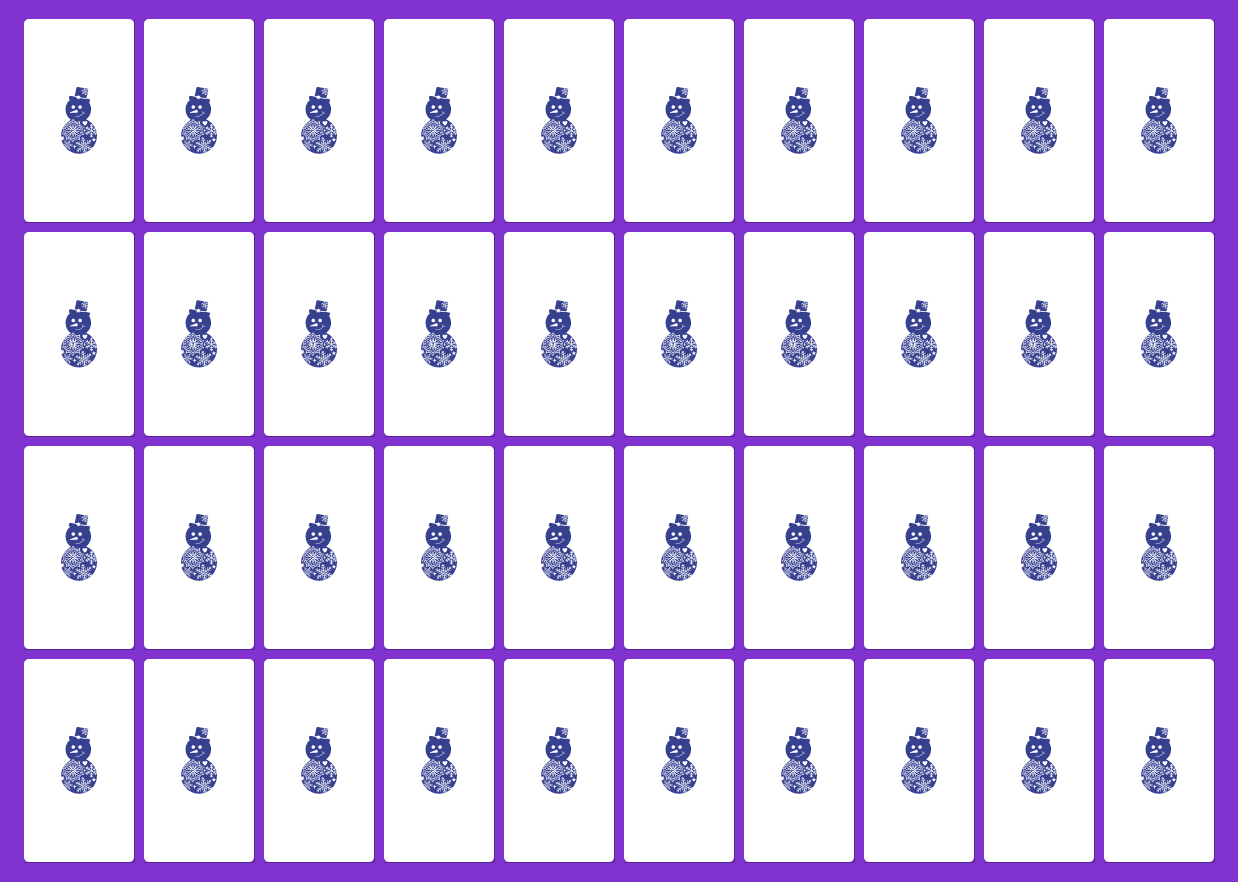
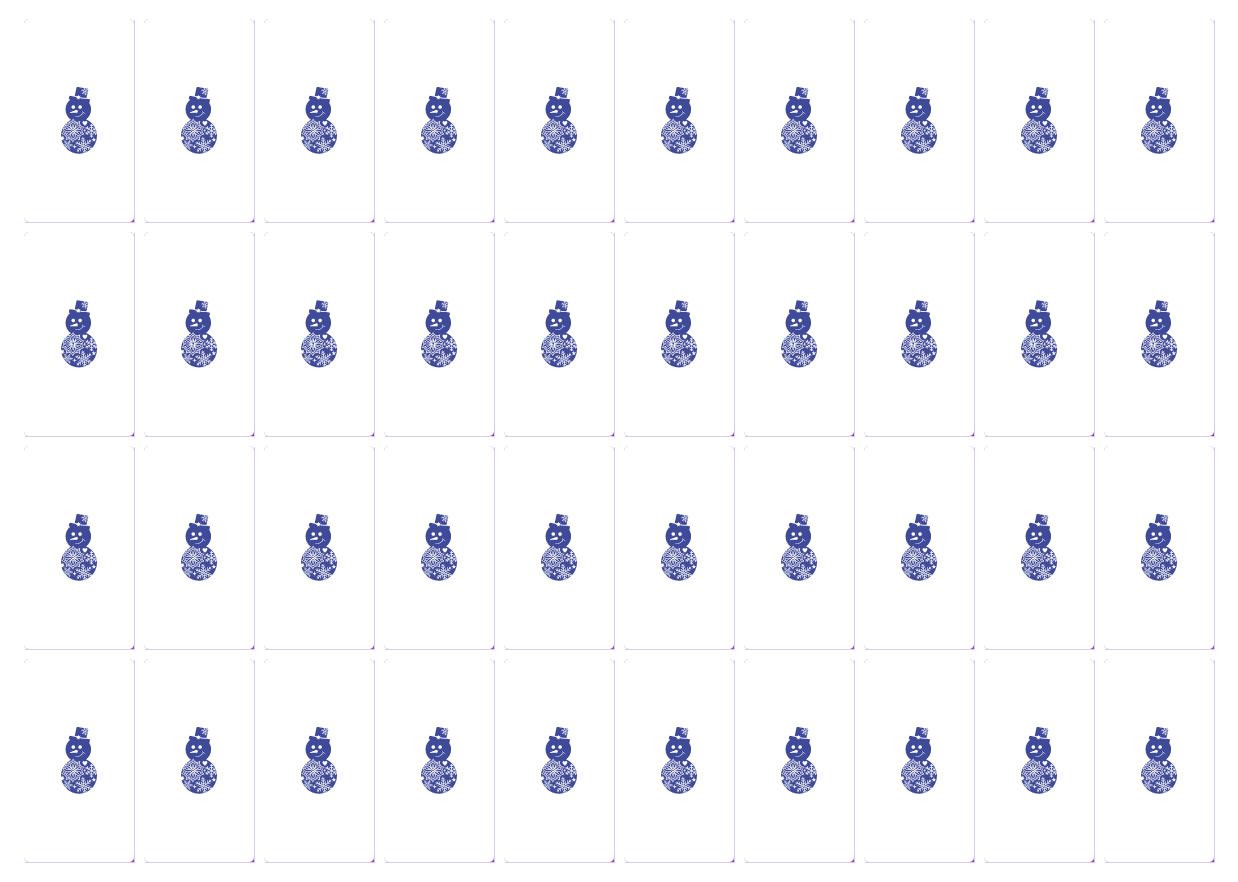
second.css	css -added background image
third.css	css
-add background image
-various style tweaks to align background image

third.html	games
-reduced win from 20 lines to 10 lines

purple-christmas-tree.jpg	img
purple-presents.jpg	img
-new background images

cruel.png	img/memory
-made background transparent

main.js	js/tetris
-fixed game over
-reduced win from 20 lines to 10 lines

Changed region(s): [[0.0, 0.0, 1.0, 1.0]]

diff --git a/css/third.css b/css/third.css
@@ -1,5 +1,7 @@
 body {
-    background: lightcoral;
+    background-image: url("/img/purple-christmas-tree.jpg");
+    background-repeat: no-repeat;
+    background-size: cover;
 }
 
 .intro {
@@ -18,6 +20,7 @@ body {
 .grid {
     display: grid;
     grid-template-columns: 300px 220px;
+    padding-top: 100px;
 }
 
 
@@ -32,6 +35,7 @@ body {
     justify-content: space-between;
     background-color: #FFFFFF;
     padding: 20px;
+    border: solid 2px; 
 }
 
 .next {
@@ -45,9 +49,24 @@ body {
     cursor: pointer;
 }
 
+.game-over img {
+    width: 150px;
+}
+
+.game-over p {
+    color: #FFFFFF;
+}
+
 .try-again {
-    max-width: 170px;
-    margin: 50px auto 0 auto;
+    background-color: #FFFFFF;
+    border-color: #FFFFFF;
+    color: mediumslateblue;
+}
+
+.try-again:hover {
+    background-color: mediumslateblue;
+    border-color: #FFFFFF;
+    color: #FFFFFF;
 }
 
 .winner p {

diff --git a/js/tetris/main.js b/js/tetris/main.js
@@ -50,7 +50,8 @@ $(document).ready(function() {
     });
 
     $('.try-again').on('click', function() {
-        $(this).hide();
+        $('.game-over').hide();
+        $('.game').show();
 
         resetGame();
         time.start = performance.now();
@@ -108,7 +109,7 @@ function play() {
 }
 
 function animate(now = 0) {
-    if (account.lines >= 20) {
+    if (account.lines >= 10) {
         gameWin();
 
         setTimeout(function() {
@@ -126,8 +127,9 @@ function animate(now = 0) {
             gameOver();
 
             setTimeout(function() {
-                $('.try-again').show();
-            }, 500);
+                $('.game').hide();
+                $('.game-over').show();
+            }, 1000);
 
             return;
         }

diff --git a/games/third.html b/games/third.html
@@ -15,7 +15,7 @@
                 <h1>Quest 3</h1>
                 <h3>Test of Intelligence</h3>
             </div>
-            <p>Quest 3 will test your ability to organize and utilize space. Clear 20 lines and another present will be yours.</p>
+            <p>Quest 3 will test your ability to organize and utilize space. Clear 10 lines and another present will be yours.</p>
             <p>Good Luck!</p>
             <div class="btn start-game">Start Game</div>
         </div>

diff --git a/css/second.css b/css/second.css
@@ -1,7 +1,9 @@
 body {
     height: 100vh;
     display: flex;
-    background: #8c3ad5;
+    background-image: url("/img/purple-presents.jpg");
+    background-repeat: no-repeat;
+    background-size: cover;
 }
 
 .content-card h1, .content-card h3, .content-card p {
